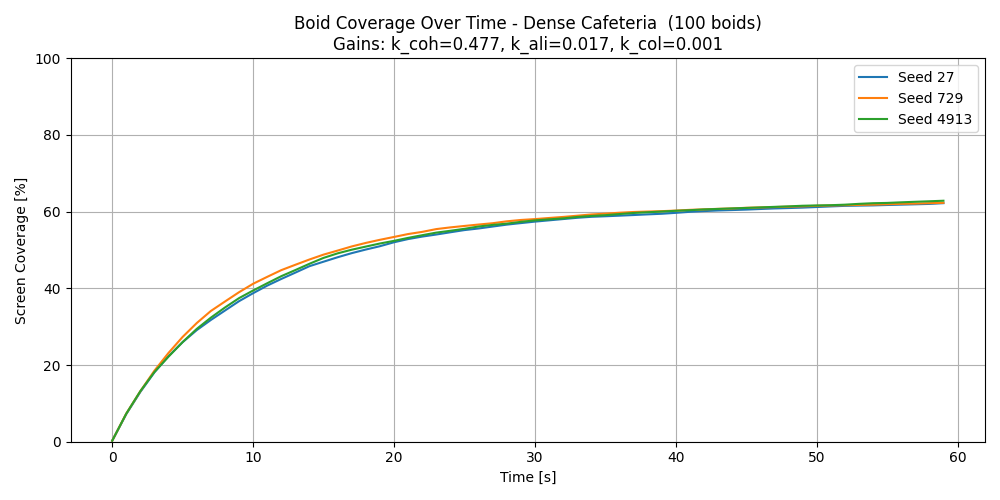
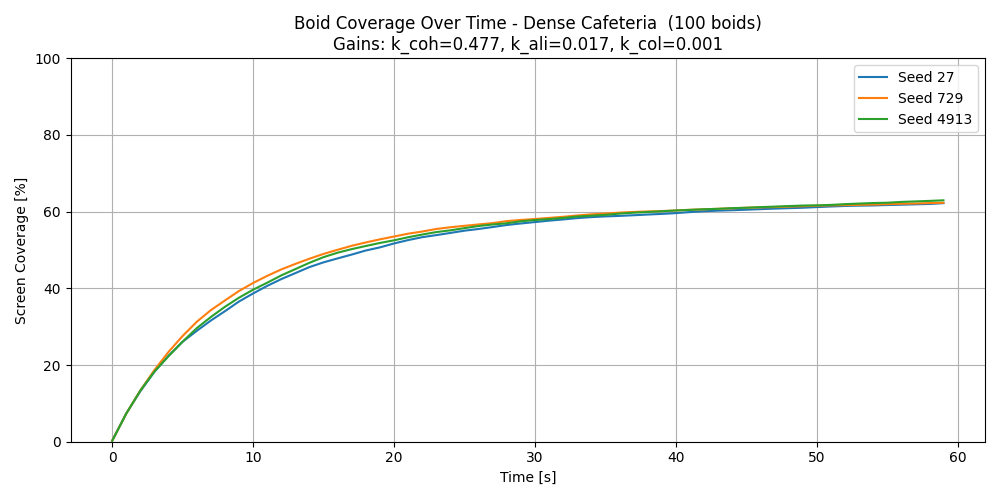
theoretically the final commit

diff --git a/report/finalproject.tex b/report/finalproject.tex
@@ -342,7 +342,7 @@ Table~\ref{tab:coverage_by_seed_and_optimal_gain} reports per-seed coverage, ave
     \hline
     \multirow{2}{*}{Dense Cafeteria} 
         & 50  & 57.11 & 58.30 & 56.50 & 57.30 & 0.91 & (0.477, 0.017, 0.001) \\
-        & 100 & 58.23 & 57.73 & 58.10 & 58.02 & 0.23 & (0.477, 0.017, 0.001) \\
+        & 100 & 52.65 & 51.08 & 52.11 & 51.95 & 0.80 & (0.477, 0.017, 0.001) \\
     \hline
     \multirow{2}{*}{Cafeteria} 
         & 50  & 86.89 & 86.11 & 86.50 & 86.50 & 0.39 & (0.367, 0.024, 0.007) \\
@@ -372,7 +372,7 @@ To further analyze spatial consistency, Table~\ref{tab:normalized_cv} presents t
     \hline
     \multirow{2}{*}{Dense Cafeteria}    
         & 50  & 1.0685 & 0.9495 & 1.0126 & 1.0102 \\
-        & 100 & 1.0399 & 0.9764 & 0.9210 & 0.9791 \\
+        & 100 & 1.0399 & 0.9760 & 0.9187 & 0.9782 \\
     \hline
     \multirow{2}{*}{Cafeteria}          
         & 50  & 0.6312 & 0.6424 & 0.6457 & 0.6398 \\

diff --git a/optimization/boids_canary.py b/optimization/boids_canary.py
@@ -77,8 +77,8 @@ def compute_coverage_uniformity(heatmap, obstacles):
     return variance, mean, std_dev
 
 
-NUM_BOIDS = 50
-k_coh, k_ali, k_col = find_max_average('optimization/data/dense_50.csv')
+NUM_BOIDS = 100
+k_coh, k_ali, k_col = find_max_average('boids/optimization/data/dense_100.csv')
 
 k_wall = 10
 MAX_ACCEL = 0.5
